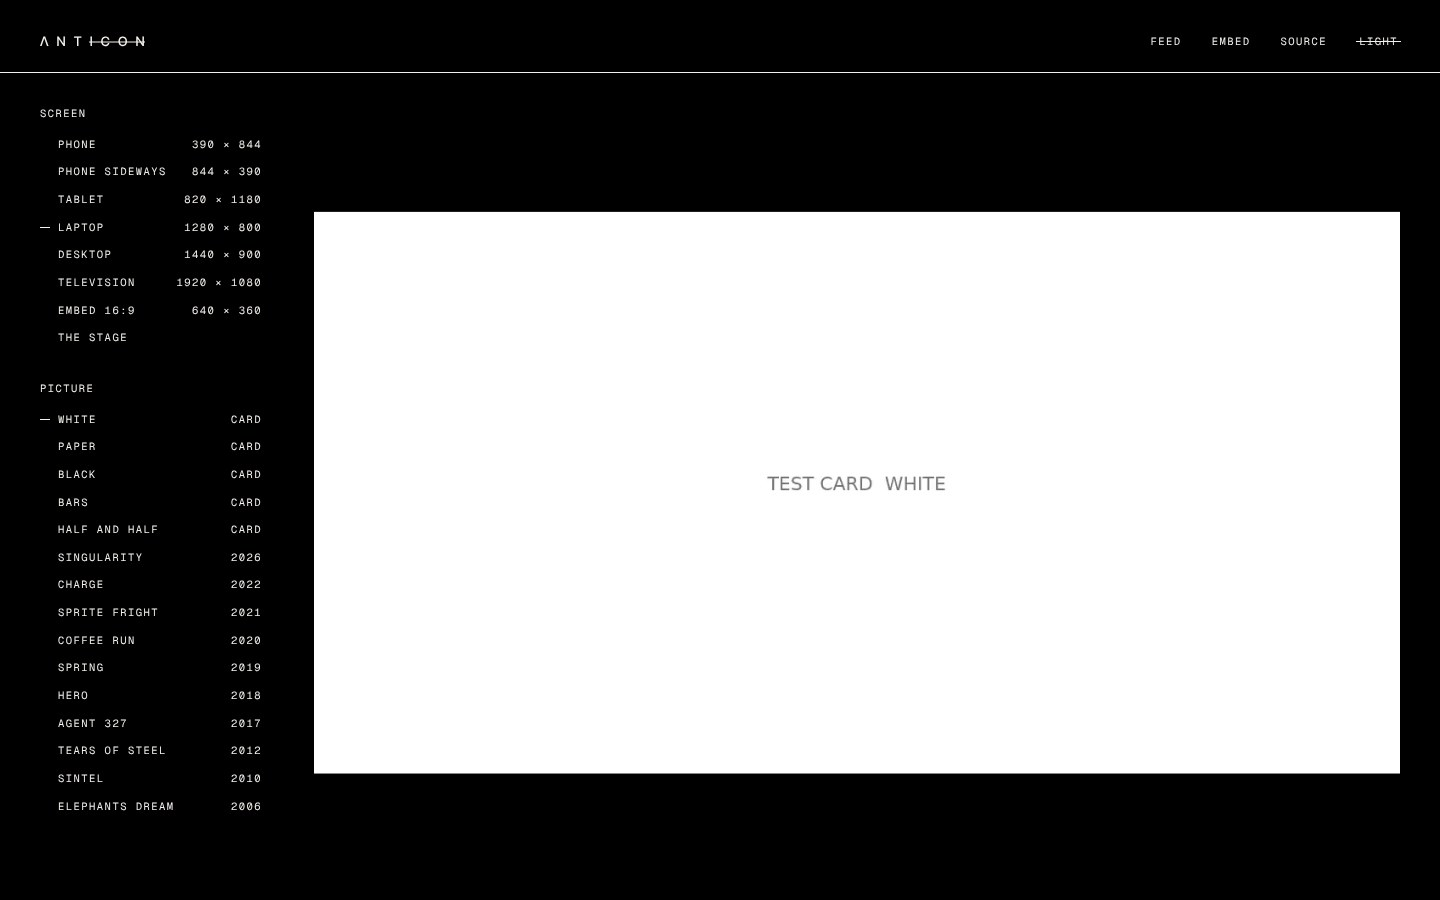
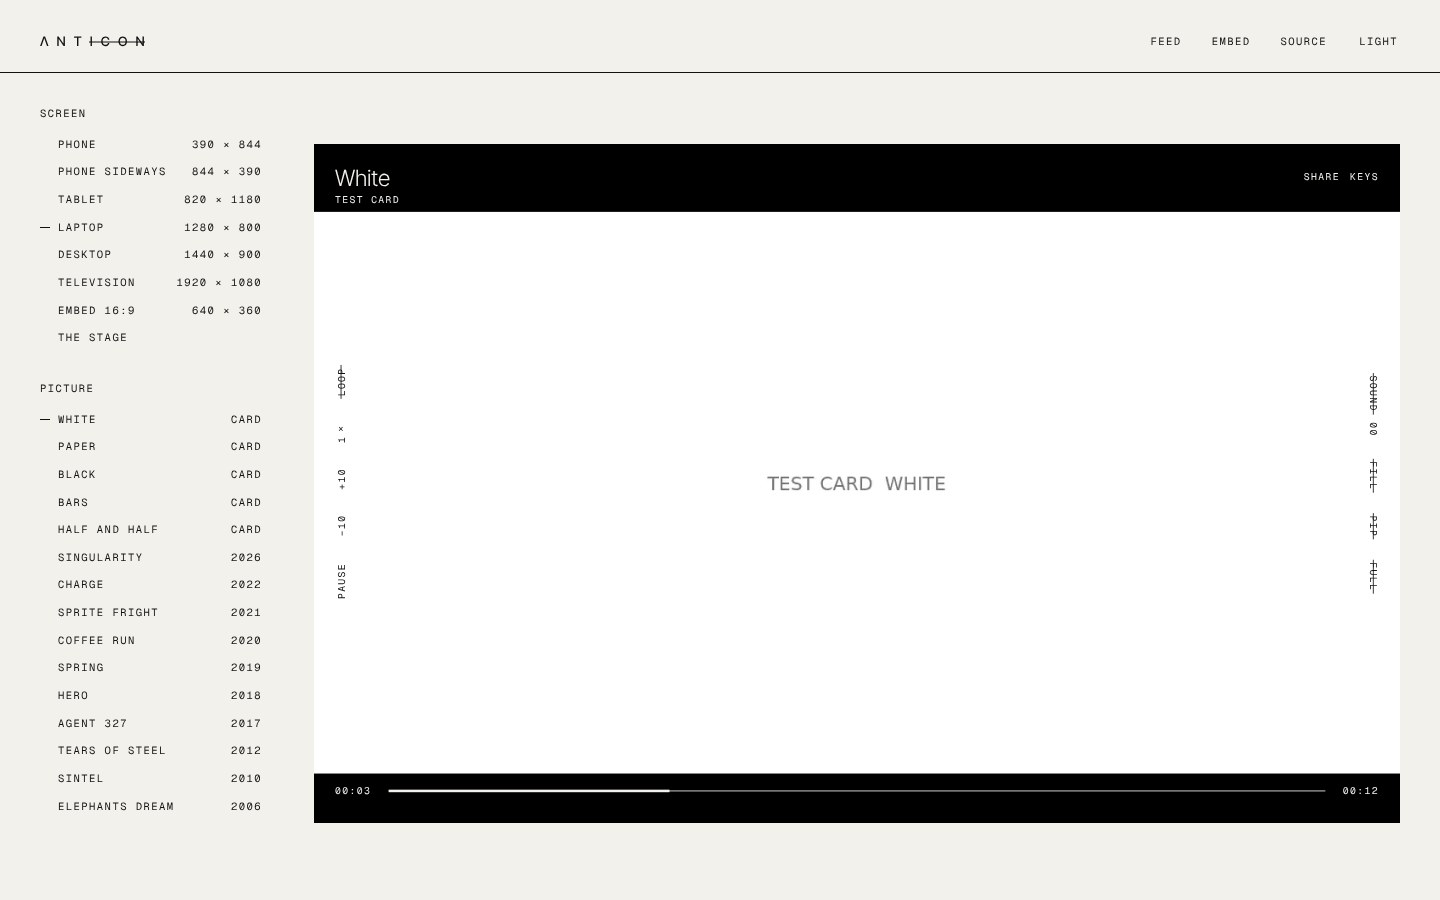
ANTICON by @boomtumbali

diff --git a/src/brand.css b/src/brand.css
@@ -51,13 +51,13 @@
  * box: labels in a row keep one baseline. (--ul-x and --ul-b are the label's
  * own padding, so the line runs under the letters, not under the padding.)
  */
-:root :is(.ln-nav a, .ln-enter, .ln-name, .ac-link, .ac-credit, .ac-share-copy, .lab-links a, .lab-nav a, .lab-credit a, .ep-link, .ep-nav a, .ep-foot a, button.ac-title, .mk-link, .site-nav a, .ep-copy) {
+:root :is(.ln-nav a, .ln-enter, .ln-name, .ac-link, .ac-credit, .ac-share-copy, .lab-links a, .lab-nav a, .lab-credit a, .ep-link, .ep-nav a, .ep-foot a, .site-name, button.ac-title, .mk-link, .site-nav a, .ep-copy) {
   position: relative;
   text-decoration: none !important;
   border-bottom: 0 !important;
   background-image: none !important;
 }
-:root :is(.ln-nav a, .ln-enter, .ln-name, .ac-link, .ac-credit, .ac-share-copy, .lab-links a, .lab-nav a, .lab-credit a, .ep-link, .ep-nav a, .ep-foot a, button.ac-title, .mk-link, .site-nav a, .ep-copy)::after {
+:root :is(.ln-nav a, .ln-enter, .ln-name, .ac-link, .ac-credit, .ac-share-copy, .lab-links a, .lab-nav a, .lab-credit a, .ep-link, .ep-nav a, .ep-foot a, .site-name, button.ac-title, .mk-link, .site-nav a, .ep-copy)::after {
   content: '';
   position: absolute;
   left: var(--ul-x, 0px);
@@ -69,17 +69,17 @@
   transition: width 0.3s cubic-bezier(0.22, 1, 0.36, 1);
 }
 @media (hover: hover) {
-  :root :is(.ln-nav a, .ln-enter, .ln-name, .ac-link, .ac-credit, .ac-share-copy, .lab-links a, .lab-nav a, .lab-credit a, .ep-link, .ep-nav a, .ep-foot a, button.ac-title, .mk-link, .site-nav a, .ep-copy):hover::after { width: calc(100% - 2 * var(--ul-x, 0px)); }
+  :root :is(.ln-nav a, .ln-enter, .ln-name, .ac-link, .ac-credit, .ac-share-copy, .lab-links a, .lab-nav a, .lab-credit a, .ep-link, .ep-nav a, .ep-foot a, .site-name, button.ac-title, .mk-link, .site-nav a, .ep-copy):hover::after { width: calc(100% - 2 * var(--ul-x, 0px)); }
 }
-:root :is(.ln-nav a, .ln-enter, .ln-name, .ac-link, .ac-credit, .ac-share-copy, .lab-links a, .lab-nav a, .lab-credit a, .ep-link, .ep-nav a, .ep-foot a, button.ac-title, .mk-link, .site-nav a, .ep-copy):focus-visible::after { width: calc(100% - 2 * var(--ul-x, 0px)); }
-:root :is(.ln-nav a, .ln-enter, .ln-name, .ac-link, .ac-credit, .ac-share-copy, .lab-links a, .lab-nav a, .lab-credit a, .ep-link, .ep-nav a, .ep-foot a, button.ac-title, .mk-link, .site-nav a, .ep-copy):active::after { width: 0; transition-duration: 0.18s; }
+:root :is(.ln-nav a, .ln-enter, .ln-name, .ac-link, .ac-credit, .ac-share-copy, .lab-links a, .lab-nav a, .lab-credit a, .ep-link, .ep-nav a, .ep-foot a, .site-name, button.ac-title, .mk-link, .site-nav a, .ep-copy):focus-visible::after { width: calc(100% - 2 * var(--ul-x, 0px)); }
+:root :is(.ln-nav a, .ln-enter, .ln-name, .ac-link, .ac-credit, .ac-share-copy, .lab-links a, .lab-nav a, .lab-credit a, .ep-link, .ep-nav a, .ep-foot a, .site-name, button.ac-title, .mk-link, .site-nav a, .ep-copy):active::after { width: 0; transition-duration: 0.18s; }
 /* each label's own padding */
 :root .ac-link { --ul-x: 6px; --ul-b: 8px; }
 :root .ln-nav a { --ul-b: 8px; }
 :root .ln-enter { --ul-x: 6px; --ul-b: 4px; }
 :root .ac-share-copy { --ul-b: 10px; }
 @media (prefers-reduced-motion: reduce) {
-  :root :is(.ln-nav a, .ln-enter, .ln-name, .ac-link, .ac-credit, .ac-share-copy, .lab-links a, .lab-nav a, .lab-credit a, .ep-link, .ep-nav a, .ep-foot a, button.ac-title, .mk-link, .site-nav a, .ep-copy)::after { transition: none; }
+  :root :is(.ln-nav a, .ln-enter, .ln-name, .ac-link, .ac-credit, .ac-share-copy, .lab-links a, .lab-nav a, .lab-credit a, .ep-link, .ep-nav a, .ep-foot a, .site-name, button.ac-title, .mk-link, .site-nav a, .ep-copy)::after { transition: none; }
 }
 
 /* a credit's link (Video.js, Mux, Blender Studio): its mark or name in the surrounding ink */
@@ -91,7 +91,7 @@
  * Every line drawn on a word (the underline under the hand, the line through an off word, the test page's dash)
  * is a 1 px border, never a filled 1 px box: a border snaps to whole pixels, so every line has the same weight
  * wherever it lands, instead of blurring across two rows of pixels at some positions and not at others. */
-:root :is(.ln-nav a, .ln-enter, .ln-name, .ac-link, .ac-credit, .ac-share-copy, .lab-links a, .lab-nav a, .lab-credit a, .ep-link, .ep-nav a, .ep-foot a, button.ac-title, .mk-link, .site-nav a, .ep-copy)::after {
+:root :is(.ln-nav a, .ln-enter, .ln-name, .ac-link, .ac-credit, .ac-share-copy, .lab-links a, .lab-nav a, .lab-credit a, .ep-link, .ep-nav a, .ep-foot a, .site-name, button.ac-title, .mk-link, .site-nav a, .ep-copy)::after {
   height: 0; background: none; border-top: 1px solid currentColor;
 }
 :root .ac-word > span::after { block-size: 0; background: none; border-block-start: 1px solid currentColor; }
@@ -113,3 +113,14 @@
 /* the header sits on a hairline that runs the full width of the page, on every page */
 .site-top { padding-bottom: clamp(10px, 1.8vmin, 18px); border-bottom: 1px solid currentColor; }
 :root .ep-copy { --ul-x: 4px; --ul-b: 8px; }
+
+/* ---------- the site's credits: one footer for Embed and Test ----------
+   A hairline the full width of the page, then the four credits as one group in the middle. On a portrait screen,
+   a list, flush left, one credit to a line. */
+.site-foot { box-sizing: border-box; display: flex; flex-wrap: wrap; justify-content: center; align-items: center; gap: 12px clamp(28px, 3vw, 44px); padding: clamp(16px, 2.4vmin, 24px) var(--site-gut, clamp(16px, 3vw, 40px)) max(clamp(16px, 2.4vmin, 24px), env(safe-area-inset-bottom)); border-top: 1px solid currentColor; --site-gut: clamp(16px, 3vw, 40px); }
+.site-credit { display: inline-flex; align-items: center; gap: 10px; font: 400 10.5px/1.3 'Geist Mono Variable', ui-monospace, monospace; letter-spacing: 0.14em; text-transform: uppercase; }
+.site-credit a { color: inherit; }
+.site-credit a:focus-visible { outline: 1px solid currentColor; outline-offset: 2px; }
+@media (max-width: 640px), (orientation: portrait) and (max-width: 1100px) {
+  .site-foot { flex-direction: column; justify-content: flex-start; align-items: flex-start; gap: 12px; }
+}

diff --git a/src/lab/lab.css b/src/lab/lab.css
@@ -8,7 +8,7 @@ body { font-family: 'Inter Tight Variable', 'Helvetica Neue', Arial, sans-serif;
 .lab-label, .lab-opt { font: 400 10.5px/1.3 'Geist Mono Variable', ui-monospace, monospace; letter-spacing: 0.14em; text-transform: uppercase; color: rgb(var(--lab-ink-rgb)); }
 
 /* ---------- wide: the lists beside the stage ---------- */
-.lab { --gut: clamp(16px, 3vw, 40px); height: 100%; display: grid; grid-template-columns: 288px minmax(0, 1fr); grid-template-rows: auto minmax(0, 1fr); grid-template-areas: 'head head' 'side stage'; }
+.lab { --gut: clamp(16px, 3vw, 40px); height: 100%; display: grid; grid-template-columns: 288px minmax(0, 1fr); grid-template-rows: auto minmax(0, 1fr) auto; grid-template-areas: 'head head' 'side stage' 'foot foot'; }
 .lab-head { grid-area: head; }
 .lab-side { grid-area: side; min-height: 0; overflow-y: auto; padding: 34px 26px 30px var(--gut); display: grid; grid-template-columns: minmax(0, 1fr); align-content: start; gap: 30px; }
 .lab-group { min-width: 0; }
@@ -28,7 +28,7 @@ body { font-family: 'Inter Tight Variable', 'Helvetica Neue', Arial, sans-serif;
 .lab-frame { position: relative; }
 
 /* ---------- narrow, or portrait: the player first, full width, then two rows of words that slide ---------- */
-.lab[data-narrow] { height: auto; min-height: 100%; align-content: start; grid-template-columns: minmax(0, 1fr); grid-template-rows: auto auto auto; grid-template-areas: 'head' 'stage' 'side'; }
+.lab[data-narrow] { height: auto; min-height: 100%; align-content: start; grid-template-columns: minmax(0, 1fr); grid-template-rows: auto auto auto auto; grid-template-areas: 'head' 'stage' 'side' 'foot'; }
 .lab[data-narrow] .lab-stage { padding: 0; margin: 22px var(--gut) 0; overflow: visible; }
 .lab[data-narrow] .lab-side { overflow: visible; padding: 22px 0 40px; gap: 22px; }
 .lab[data-narrow] .lab-label { padding: 0 var(--gut); margin-bottom: 4px; }
@@ -40,3 +40,4 @@ body { font-family: 'Inter Tight Variable', 'Helvetica Neue', Arial, sans-serif;
 /* scrollbars only while something scrolls (the page marks the scrolled box for a moment) */
 :root, :root[data-theme], .lab-side { --sb: transparent; --sb-hover: transparent; }
 :root[data-scrolling], :root[data-theme][data-scrolling], .lab-side[data-scrolling] { --sb: rgb(var(--lab-ink-rgb)); --sb-hover: rgb(var(--lab-ink-rgb)); }
+.lab .site-foot { grid-area: foot; }

diff --git a/src/embed/embed.css b/src/embed/embed.css
@@ -26,15 +26,10 @@ body { font-family: 'Inter Tight Variable', 'Helvetica Neue', Arial, sans-serif;
   .ep-row, .ep-pair { grid-template-columns: 1fr; }
   .ep-portrait { max-width: 360px; }
 }
-.ep-foot { margin-top: 56px; padding-top: 18px; border-top: 1px solid rgb(var(--ep-ink-rgb) / 0.14); display: flex; flex-wrap: wrap; align-items: center; gap: 12px 32px; }
-.ep-credit { font: 400 10.5px/1.3 'Geist Mono Variable', monospace; letter-spacing: 0.14em; text-transform: uppercase; color: rgb(var(--ep-ink-rgb) / 0.55); }
-.ep-foot a { font: 400 10.5px/1.3 'Geist Mono Variable', monospace; letter-spacing: 0.14em; text-transform: uppercase; color: inherit; text-underline-offset: 3px; }
-.ep-credit { display: inline-flex; flex-wrap: wrap; align-items: center; gap: 8px; }
 
 /* one ink: no greys. Every word and rule on the page is the page's ink, solid. */
-.ep-kicker, .ep-intro p:last-child, .ep-fig figcaption, .ep-code p, .ep-credit { color: rgb(var(--ep-ink-rgb)); }
+.ep-kicker, .ep-intro p:last-child, .ep-fig figcaption, .ep-code p { color: rgb(var(--ep-ink-rgb)); }
 
-.ep-foot { border-color: rgb(var(--ep-ink-rgb)); }
 
 /* the code, with Copy as a word in its corner (white on the code's black, in both themes) */
 .ep-pre { position: relative; }
@@ -44,3 +39,7 @@ body { font-family: 'Inter Tight Variable', 'Helvetica Neue', Arial, sans-serif;
 
 /* room above the code for the Copy word, so it never sits on a line of code */
 .ep-pre pre { padding-top: 46px; }
+
+/* under the header, the same step as the Test page: the page's name, then its title, without an empty band */
+.ep { padding-top: 0; }
+.ep-intro { padding-top: 34px; }

diff --git a/src/embed/main.jsx b/src/embed/main.jsx
@@ -8,7 +8,7 @@ import '../anticon.css';
 import './embed.css';
 import { AnticonPlayer } from '../player/AnticonPlayer.jsx';
 import { FILMS, LOCAL, localSrc, storyboardOf } from '../films.js';
-import { BlenderLink, MuxLink, VideoJsLink } from '../credits.jsx';
+import { SiteCredits, VideoJsLink } from '../credits.jsx';
 import { SiteHeader } from '../SiteHeader.jsx';
 
 /*
@@ -108,27 +108,8 @@ function Page() {
         </div>
         <p>Give it a width and an aspect ratio. A Mux playback ID, or any MP4 or HLS link as <code>src</code>.</p>
       </section>
-      <footer className="ep-foot">
-        <span className="ep-credit">
-          <span>Built on</span>
-          <VideoJsLink height={11} />
-        </span>
-        <span className="ep-credit">
-          <span>Streams</span>
-          <MuxLink height={10} />
-        </span>
-        <span className="ep-credit">
-          <span>Films</span>
-          <BlenderLink />
-        </span>
-        <span className="ep-credit">
-          <span>Vibecoder</span>
-          <a href="https://contra.com/boomtumbali" target="_blank" rel="noreferrer">
-            @boomtumbali
-          </a>
-        </span>
-      </footer>
     </main>
+      <SiteCredits />
     </>
   );
 }

diff --git a/src/player/Skin.jsx b/src/player/Skin.jsx
@@ -1174,12 +1174,25 @@ export function AnticonSkin({
         live.current.toggle();
       }, 320);
     };
+    // A long press is ours (twice the speed, then a slide for sound or scrubbing), never the browser's: its
+    // long-press menu (on a video: save, open, copy) would take the finger and cancel the gesture mid-hold.
+    let touchAt = -1e9;
+    const noteTouch = (e) => {
+      if (e.pointerType === 'touch') touchAt = performance.now();
+    };
+    const noMenu = (e) => {
+      if (pts.size > 0 || performance.now() - touchAt < 1500) e.preventDefault();
+    };
+    el.addEventListener('pointerdown', noteTouch, true);
+    el.addEventListener('contextmenu', noMenu, true);
     el.addEventListener('pointerdown', down);
     el.addEventListener('pointermove', move);
     el.addEventListener('pointerup', up);
     el.addEventListener('pointercancel', up);
     el.addEventListener('touchmove', tmove, { passive: false });
     return () => {
+      el.removeEventListener('pointerdown', noteTouch, true);
+      el.removeEventListener('contextmenu', noMenu, true);
       el.removeEventListener('pointerdown', down);
       el.removeEventListener('pointermove', move);
       el.removeEventListener('pointerup', up);

diff --git a/src/App.jsx b/src/App.jsx
@@ -5,7 +5,7 @@ import { HlsJsVideo } from '@videojs/react/media/hlsjs-video';
 import { MuxData } from '@videojs/react/extensions/mux-data';
 import { Player } from './player/core.js';
 import { AnticonSkin } from './player/Skin.jsx';
-import { FILMS, LOCAL, localSrc, pad2, storyboardOf } from './films.js';
+import { FILMS, LOCAL, localSrc, storyboardOf } from './films.js';
 import { IndexPage, Credits } from './IndexPage.jsx';
 import { Landing } from './Landing.jsx';
 import { Wordmark } from './Wordmark.jsx';
@@ -533,7 +533,6 @@ function Slide({ p, film, front, playing, shown, els, soundPref, from, loop, onE
     <section ref={rootEl} className="ac-slide" data-front={front || undefined} aria-label={`${film.title}, ${film.year}`}>
       <div ref={inner} className="ac-slide-in">
         <div className="ac-cover" data-gone={visible || undefined} aria-hidden="true">
-          <span className="ac-cover-n ac-mono">{pad2(film.n)}</span>
           <span className="ac-cover-t">{film.title}</span>
           {film.subtitle && <span className="ac-cover-s ac-mono">{film.subtitle}</span>}
         </div>

diff --git a/src/theme.jsx b/src/theme.jsx
@@ -2,16 +2,20 @@ import { useEffect, useState } from 'react';
 
 /*
  * Light or dark page. One choice, kept in this browser and shared by every
- * page (Feed, Test, Embed). The pages set
- * it before they paint (a line in each page's <head>), so there is no flash.
+ * page (Feed, Test, Embed) once made. Until then each page has its own: the
+ * Feed opens dark (a cinema), Test and Embed open light (the player's edges
+ * show against the page). The pages set it before they paint (a line in each
+ * page's <head>, which also records the page's own default), so no flash.
  * The player itself stays dark: it is a picture frame.
  */
 const KEY = 'anticon-theme';
+const pageDefault = () => (document.documentElement.dataset.themeDefault === 'light' ? 'light' : 'dark');
 export const getTheme = () => {
   try {
-    return localStorage.getItem(KEY) === 'light' ? 'light' : 'dark';
+    const v = localStorage.getItem(KEY);
+    return v === 'light' || v === 'dark' ? v : pageDefault();
   } catch {
-    return 'dark';
+    return pageDefault();
   }
 };
 export function setTheme(t) {

diff --git a/src/anticon.css b/src/anticon.css
@@ -417,3 +417,9 @@ li:last-child .ac-ix-row { border-bottom: 1px solid rgb(var(--fg-rgb) / 0.12); }
 .ac-ix-top, .ac-keys-top { grid-template-rows: var(--tline); align-items: center; }
 .ac-ix-top > :last-child, .ac-keys-top > :last-child { margin-top: 0; }
 .ac-ix-top, .ac-keys-top { min-height: var(--tline); }
+/* a long press is the player's: no press-and-hold callout over the picture or the words (iOS), no selection */
+.ac, .ac video, .ac img, .ac canvas { -webkit-touch-callout: none; -webkit-user-select: none; user-select: none; }
+/* the sheets scroll under a finger, in the feed too (the feed's own swipe is off inside them), and keep their scroll
+   to themselves */
+.ac.ac--feed :is(.ac-keys, .ac-share, .ac-ix), .ac.ac--feed :is(.ac-keys, .ac-share, .ac-ix) * { touch-action: pan-y; }
+.ac :is(.ac-keys, .ac-share, .ac-ix) { overscroll-behavior: contain; -webkit-overflow-scrolling: touch; }

diff --git a/src/credits.jsx b/src/credits.jsx
@@ -32,3 +32,29 @@ export function BlenderLink({ children = 'Blender Studio' }) {
     </a>
   );
 }
+
+/** The credits at the foot of a page, in one order: Video.js, Mux, Blender Studio, the vibecoder. */
+export function SiteCredits() {
+  return (
+    <footer className="site-foot">
+      <span className="site-credit">
+        <span>Built on</span>
+        <VideoJsLink height={11} />
+      </span>
+      <span className="site-credit">
+        <span>Streams</span>
+        <MuxLink height={10} />
+      </span>
+      <span className="site-credit">
+        <span>Films</span>
+        <BlenderLink />
+      </span>
+      <span className="site-credit">
+        <span>Vibecoder</span>
+        <a className="site-name" href="https://contra.com/boomtumbali" target="_blank" rel="noreferrer">
+          @boomtumbali
+        </a>
+      </span>
+    </footer>
+  );
+}

diff --git a/index.html b/index.html
@@ -2,7 +2,7 @@
 <html lang="en" data-loading>
   <head>
     <meta charset="UTF-8" />
-    <script>try{document.documentElement.dataset.theme=localStorage.getItem('anticon-theme')==='light'?'light':'dark'}catch(e){document.documentElement.dataset.theme='dark'}</script>
+    <script>(function(){var r=document.documentElement,d='dark',s=null;r.dataset.themeDefault=d;try{s=localStorage.getItem('anticon-theme')}catch(e){}r.dataset.theme=s==='light'||s==='dark'?s:d})()</script>
     <meta name="viewport" content="width=device-width, initial-scale=1, viewport-fit=cover" />
     <meta name="theme-color" content="#000000" />
     <meta name="description" content="ANTICON: a Video.js player with no icons, only words and numbers. Ten Blender open movies, one to a screen, for as long as you keep scrolling." />

diff --git a/player/index.html b/player/index.html
@@ -2,7 +2,7 @@
 <html lang="en">
   <head>
     <meta charset="UTF-8" />
-    <script>try{document.documentElement.dataset.theme=localStorage.getItem('anticon-theme')==='light'?'light':'dark'}catch(e){document.documentElement.dataset.theme='dark'}</script>
+    <script>(function(){var r=document.documentElement,d='light',s=null;r.dataset.themeDefault=d;try{s=localStorage.getItem('anticon-theme')}catch(e){}r.dataset.theme=s==='light'||s==='dark'?s:d})()</script>
     <meta name="viewport" content="width=device-width, initial-scale=1, viewport-fit=cover" />
     <meta name="theme-color" content="#000000" />
     <meta name="description" content="ANTICON Test: try the player at phone, tablet, laptop and TV sizes, over bright and dark pictures." />

diff --git a/embed/index.html b/embed/index.html
@@ -2,7 +2,7 @@
 <html lang="en">
   <head>
     <meta charset="UTF-8" />
-    <script>try{document.documentElement.dataset.theme=localStorage.getItem('anticon-theme')==='light'?'light':'dark'}catch(e){document.documentElement.dataset.theme='dark'}</script>
+    <script>(function(){var r=document.documentElement,d='light',s=null;r.dataset.themeDefault=d;try{s=localStorage.getItem('anticon-theme')}catch(e){}r.dataset.theme=s==='light'||s==='dark'?s:d})()</script>
     <meta name="viewport" content="width=device-width, initial-scale=1, viewport-fit=cover" />
     <meta name="theme-color" content="#f2f0eb" />
     <meta name="description" content="The ANTICON player on an ordinary page: one component, any box." />
